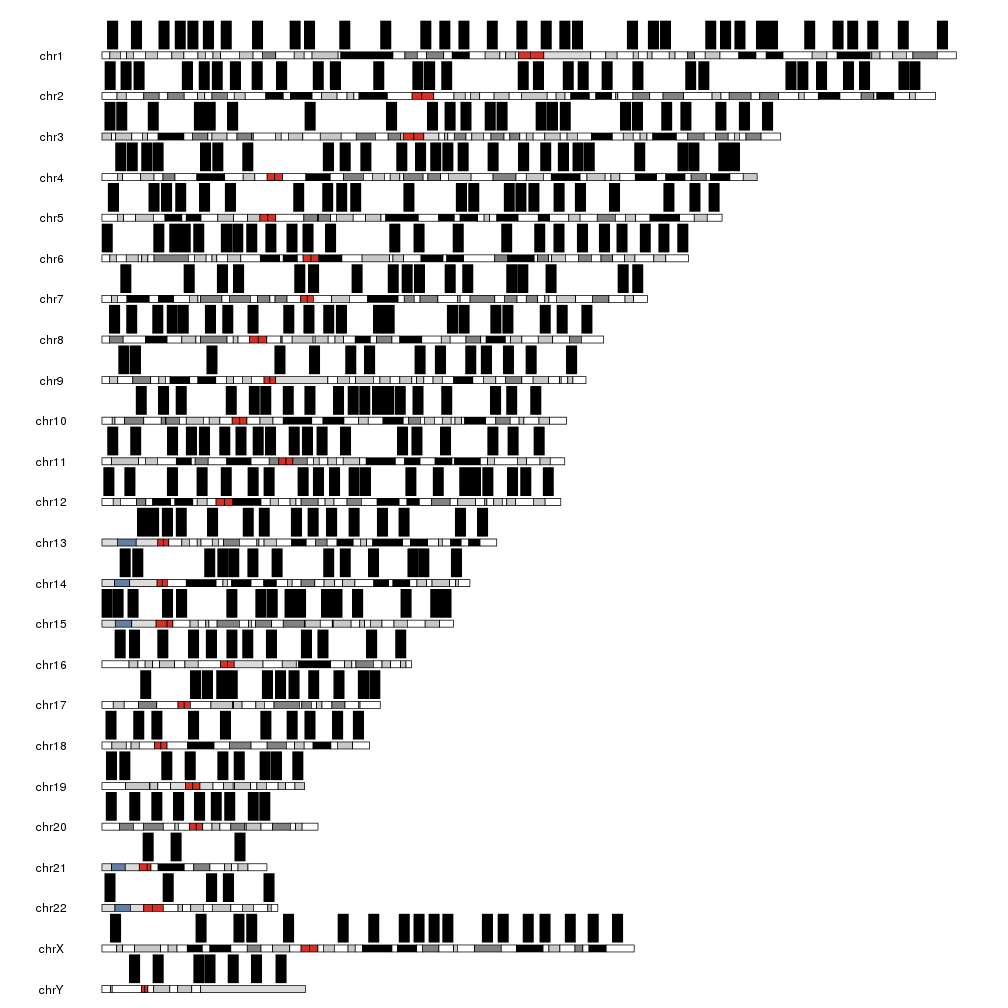
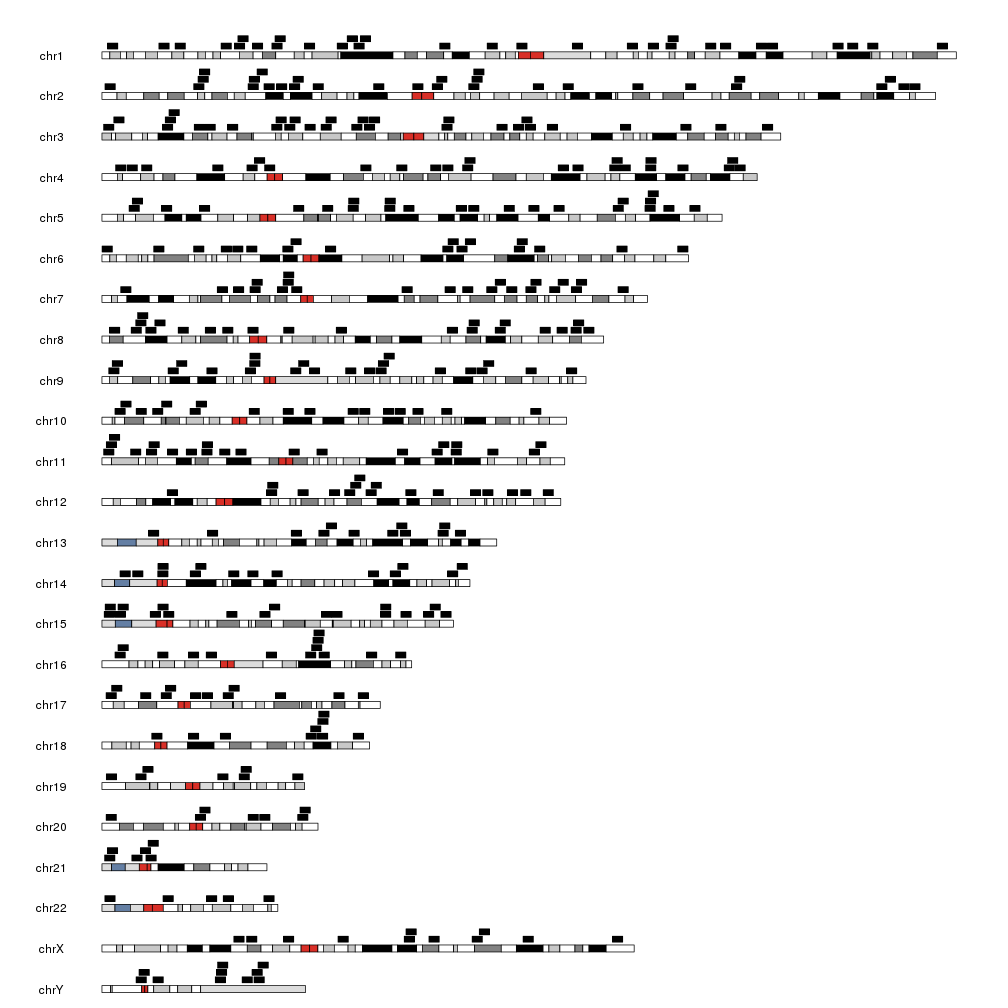
Added missing non.overlapping=FALSE in createRandomRegs

Changed region(s): [[0.0923, 0.0, 0.7688, 0.9841], [0.3383, 0.8919, 0.6151, 0.9534], [0.7688, 0.0, 0.9534, 0.0923]]

diff --git a/docs/Tutorial/PlotRegions/PlotRegions.md b/docs/Tutorial/PlotRegions/PlotRegions.md
@@ -23,7 +23,7 @@ We will create a set of random regions using
 
 ```r
 library(karyoploteR)
-regions <- createRandomRegions(nregions=400, length.mean = 3e6, mask=NA)
+regions <- createRandomRegions(nregions=400, length.mean = 3e6, mask=NA, non.overlapping = FALSE)
 kp <- plotKaryotype()
 kpPlotRegions(kp, data=regions)
 ```
